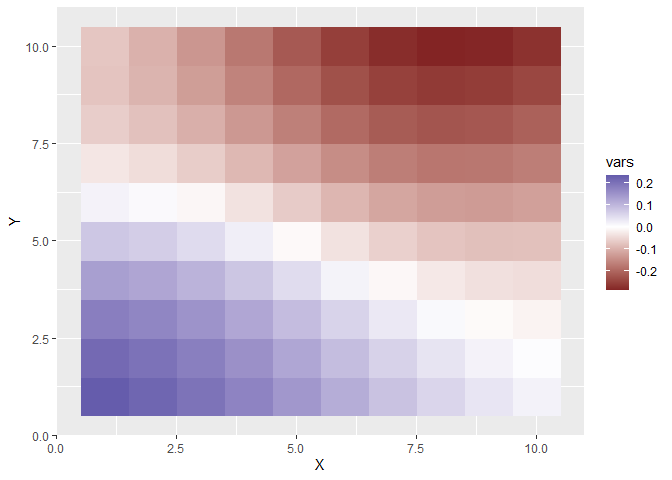
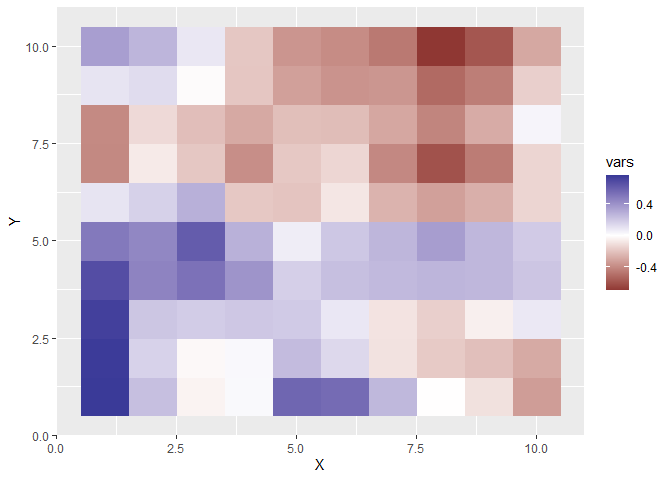
fix

diff --git a/README.md b/README.md
@@ -36,7 +36,7 @@ head(df)
 library(gwpr)
 df_coord <- df[c("X", "Y")]
 params <- gwpr(df, dep ~ vars, df_coord,
-               kernel = "gaussian", band_width = 3)
+               kernel = "gaussian", bandwidth = 1)
 ```
 
 ``` r
@@ -51,19 +51,24 @@ ggplot(df_gg, aes(X, Y)) + geom_raster(aes(fill = vars)) +
 ### Change bandwidth
 
 ``` r
-params_bw1 <- gwpr(df, dep ~ vars, df_coord,
-                   kernel = "gaussian", band_width = 1)
+params_bw2 <- gwpr(df, dep ~ vars, df_coord,
+                   kernel = "gaussian", bandwidth = 2)
+params_bw3 <- gwpr(df, dep ~ vars, df_coord,
+                   kernel = "gaussian", bandwidth = 3)
 ```
 
 ``` r
-df_gg_bw1 <- cbind(params_bw1, df_coord)
+df_gg_bw2 <- cbind(params_bw2, df_coord)
+df_gg_bw3 <- cbind(params_bw3, df_coord)
 
-p1 <- ggplot(df_gg_bw1, aes(X, Y)) + geom_raster(aes(fill = vars)) +
+p1 <- ggplot(df_gg, aes(X, Y)) + geom_raster(aes(fill = vars)) +
   scale_fill_gradient2() + ggtitle("bandwidth = 1")
-p2 <- ggplot(df_gg, aes(X, Y)) + geom_raster(aes(fill = vars)) +
+p2 <- ggplot(df_gg_bw2, aes(X, Y)) + geom_raster(aes(fill = vars)) +
+  scale_fill_gradient2() + ggtitle("bandwidth = 2")
+p3 <- ggplot(df_gg_bw3, aes(X, Y)) + geom_raster(aes(fill = vars)) +
   scale_fill_gradient2() + ggtitle("bandwidth = 3")
 
-cowplot::plot_grid(p1, p2)
+cowplot::plot_grid(p1, p2, p3)
 ```
 
 <img src="man/figures/README-unnamed-chunk-7-1.png" width="800" />
